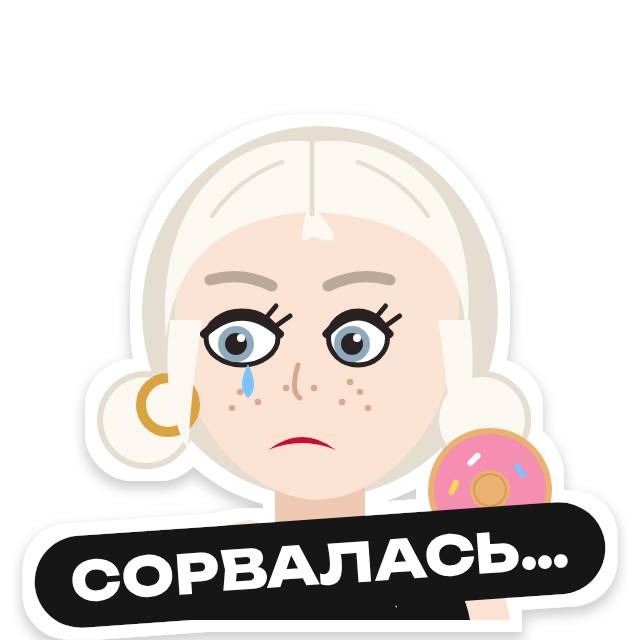
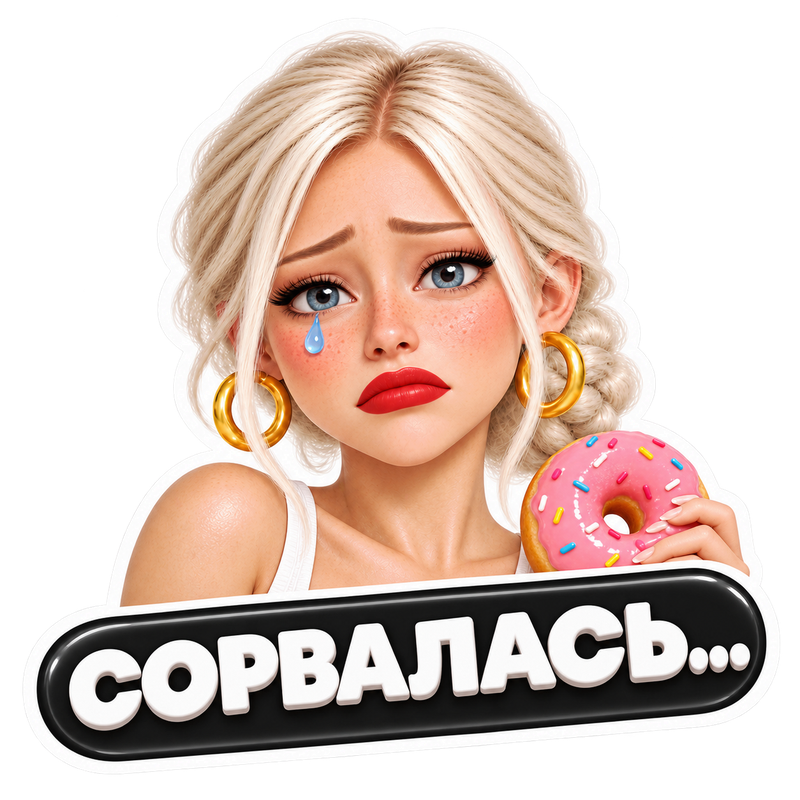
Ника: рилс «Сон и сушка», 3D-стикеры владельца вместо плоских
Claude-Session: https://claude.ai/code/session_01Napg3wfFdsDVKQ2M6dwRyb

diff --git a/index.html b/index.html
@@ -2,7 +2,7 @@
 <html lang="ru">
 <head>
 <meta charset="utf-8">
-<title>Ника — срываюсь по выходным</title>
+<title>Ника — сон и сушка</title>
 <style>
 @font-face { font-family: Unb; src: url(assets/fonts/Unbounded-VF.ttf); font-weight: 200 900; }
 @font-face { font-family: Man; src: url(assets/fonts/Manrope-VF.ttf); font-weight: 200 800; }
@@ -164,6 +164,11 @@ em .kw.hot { color: var(--ink); }
 .vlab span { width: 150px; text-align: center; font: 700 30px/1 Man; color: var(--muted); }
 .vb.w7 .c, .vlab.w7 span { width: 100px; } .vb.w7 .bar { width: 74px; border-radius: 20px 20px 6px 6px; }
 .week .day { position: relative; }
+.chk { width: 760px; padding: 34px 44px; display: flex; flex-direction: column; gap: 22px; }
+.chk .ci { display: flex; align-items: center; gap: 24px; font: 800 52px/1 Unb; transform-origin: 20% 50%; }
+.chk .ci i { width: 72px; height: 72px; border-radius: 50%; background: var(--green); color: #fff; font: 900 40px/72px Unb; text-align: center; font-style: normal; }
+.vrow .l small { display: block; font: 700 24px/1 Man; color: var(--muted); margin-top: 8px; }
+.vs .vrow .l { width: 250px; }
 </style>
 </head>
 <body>
@@ -178,100 +183,85 @@ em .kw.hot { color: var(--ink); }
 
   <!-- Разметка монтажа: .layer = кадр; data-fx (pop/left/right/up/zoom/slam/punch/draw), data-mark, data-at, data-count, data-shatter -->
   <div id="world">
-    <!-- 1. Хук: пн–пт идеальна, в субботу срыв -->
+    <!-- 1. Хук: всё правильно, но не худеешь -->
     <section class="sec" id="s1">
       <div class="layer A">
-        <div class="row" style="top:210px"><div class="h1" data-fx="punch" style="font-size:88px">ПН–ПТ<br><em>ИДЕАЛЬНА</em></div></div>
-        <div class="row" style="top:470px"><div class="week" data-fx="punch">
-          <div class="day"><b>ПН</b><div class="ok">✓</div></div><div class="day"><b>ВТ</b><div class="ok">✓</div></div><div class="day"><b>СР</b><div class="ok">✓</div></div>
-          <div class="day"><b>ЧТ</b><div class="ok">✓</div></div><div class="day"><b>ПТ</b><div class="ok">✓</div></div>
-          <div class="day bad"><b>СБ</b><div class="no">!</div></div><div class="day bad"><b>ВС</b><div class="no">!</div></div></div></div>
-        <div class="row" style="top:720px"><div class="tst" data-fx="punch" style="width:430px;height:430px"><img src="assets/nika/toon/10_cool.png" alt=""></div></div>
+        <div class="row" style="top:200px"><div class="h1" data-fx="punch" style="font-size:78px">ВСЁ ПРАВИЛЬНО,<br>НО <em>НЕ ХУДЕЕШЬ?</em></div></div>
+        <div class="row" style="top:440px"><div class="card chk" data-fx="punch">
+          <div class="ci hk"><i>✓</i>питание</div><div class="ci hk"><i>✓</i>тренировки</div><div class="ci hk"><i>✓</i>шаги</div></div></div>
+        <div class="row" style="top:810px"><div class="scale card hkx" data-fx="punch"><div class="lcd">0,0</div><div class="unit">КГ ЗА МЕСЯЦ</div></div></div>
       </div>
       <div class="layer B" style="opacity:0">
-        <div class="row" style="top:220px"><div class="h1" data-fx="kin" style="font-size:96px">А В <em>СУББОТУ</em>…</div></div>
-        <div class="row" style="top:400px"><div style="position:relative;width:900px;height:600px">
-          <div data-fx="drop" data-at=".02" style="position:absolute;left:40px;top:40px"><svg class="prop" width="260" height="280" viewBox="0 0 260 280"><path d="M20 40 Q130 0 240 40 L130 270Z" fill="#f6c453" stroke="#121212" stroke-width="9" stroke-linejoin="round"/><path d="M20 40 Q130 0 240 40" stroke="#d98c4a" stroke-width="26" fill="none" stroke-linecap="round"/><circle cx="95" cy="85" r="20" fill="#c8102e"/><circle cx="165" cy="90" r="18" fill="#c8102e"/><circle cx="130" cy="160" r="17" fill="#c8102e"/><path d="M70 60 Q60 90 90 120" stroke="#f9dc8c" stroke-width="8" fill="none" opacity=".8"/></svg></div>
-          <div data-fx="drop" data-at=".18" style="position:absolute;left:520px;top:20px"><svg class="prop" width="300" height="250" viewBox="0 0 300 250"><path d="M20 230 V110 L280 60 V200Z" fill="#f6dcb5" stroke="#121212" stroke-width="9" stroke-linejoin="round"/><path d="M24 112 L276 64" stroke="#ff8fa3" stroke-width="30" stroke-linecap="round"/><path d="M24 172 L276 132" stroke="#fff" stroke-width="14"/><circle cx="230" cy="50" r="22" fill="#c8102e" stroke="#121212" stroke-width="7"/><path d="M232 30 Q240 8 256 4" stroke="#121212" stroke-width="6" fill="none"/></svg></div>
-          <div data-fx="drop" data-at=".34" style="position:absolute;left:110px;top:330px"><svg class="prop" width="240" height="240" viewBox="0 0 240 240"><circle cx="120" cy="120" r="100" fill="#e7b46a" stroke="#121212" stroke-width="9"/><path d="M40 115 Q45 50 120 38 Q195 50 200 115 Q205 150 180 160 Q150 140 120 168 Q90 140 60 160 Q36 150 40 115Z" fill="#ff8fa3"/><circle cx="120" cy="118" r="32" fill="#f4f1ec" stroke="#121212" stroke-width="9"/><g stroke-width="8" stroke-linecap="round"><path d="M70 90 l12 -6" stroke="#fff"/><path d="M160 70 l10 8" stroke="#ffd166"/><path d="M175 120 l12 4" stroke="#fff"/><path d="M90 60 l8 10" stroke="#5bb36a"/><path d="M130 65 l12 -2" stroke="#fff"/></g></svg></div>
-          <div data-fx="drop" data-at=".5" style="position:absolute;left:470px;top:330px"><svg class="prop" width="300" height="240" viewBox="0 0 300 240"><path d="M30 110 Q30 20 150 20 Q270 20 270 110Z" fill="#e7a24e" stroke="#121212" stroke-width="9" stroke-linejoin="round"/><path d="M24 122 Q60 106 90 122 T150 122 T210 122 T276 122" stroke="#5bb36a" stroke-width="18" fill="none" stroke-linecap="round"/><rect x="30" y="134" width="240" height="38" rx="19" fill="#7a4524" stroke="#121212" stroke-width="8"/><path d="M34 184 H266 Q266 220 230 220 H70 Q34 220 34 184Z" fill="#e7a24e" stroke="#121212" stroke-width="9"/><circle cx="110" cy="55" r="5" fill="#fff"/><circle cx="160" cy="45" r="5" fill="#fff"/><circle cx="200" cy="65" r="5" fill="#fff"/></svg></div>
-        </div></div>
-        <div class="row" style="top:1050px"><div class="hand" data-fx="write" data-at=".7" style="transform:rotate(-4deg)">всё, что вижу!</div></div>
+        <div class="row" style="top:220px"><div class="h1" data-fx="kin" style="font-size:100px">СКОЛЬКО<br>ТЫ <em>СПИШЬ?</em></div></div>
+        <div class="row" style="top:480px"><svg class="prop" data-fx="zoom" data-at=".1" width="560" height="460" viewBox="0 0 560 460"><path d="M290 50 A190 190 0 1 0 470 330 A160 160 0 0 1 290 50Z" fill="#ffd166" stroke="#121212" stroke-width="10" stroke-linejoin="round"/><circle cx="190" cy="250" r="16" fill="#f0b94a"/><circle cx="240" cy="340" r="11" fill="#f0b94a"/><g font-family="Unb" font-weight="900" fill="#c8102e"><text x="380" y="150" font-size="60">z</text><text x="430" y="95" font-size="80">z</text><text x="490" y="40" font-size="56">Z</text></g><path class="glint" d="M120 300 Q130 220 180 170" stroke="#fff3c4" stroke-width="14" fill="none" stroke-linecap="round"/></svg></div>
+        <div class="row" style="top:990px"><div class="hand" data-fx="write" data-at=".6" style="transform:rotate(-5deg)">только честно</div></div>
       </div>
     </section>
 
-    <!-- 2. Знакомо? пицца, торт, +1 кг -->
+    <!-- 2. Спала 5–6 часов → весь день тянет на сладкое -->
     <section class="sec" id="s2">
       <div class="layer A">
-        <div class="row" style="top:220px"><div class="h1" data-fx="kin" style="font-size:110px">ЗНАКОМО?</div></div>
-        <div class="row" style="top:450px"><div class="week" style="grid-template-columns:repeat(5,150px)">
-          <div class="day" data-fx="pop" data-mark="a"><b>ПН</b><div class="ok">✓</div></div><div class="day" data-fx="pop" data-mark="a" data-at=".1"><b>ВТ</b><div class="ok">✓</div></div>
-          <div class="day" data-fx="pop" data-mark="a" data-at=".2"><b>СР</b><div class="ok">✓</div></div><div class="day" data-fx="pop" data-mark="a" data-at=".3"><b>ЧТ</b><div class="ok">✓</div></div>
-          <div class="day" data-fx="pop" data-mark="a" data-at=".4"><b>ПТ</b><div class="ok">✓</div></div></div></div>
-        <div class="row" style="top:690px"><div class="tag dark" data-fx="pop" data-mark="a" data-at=".7">5 дней держишься</div></div>
-        <div class="row" style="top:820px"><div class="tst" data-fx="up" data-at=".2" style="width:400px;height:400px"><img src="assets/nika/toon/04_power.png" alt=""></div></div>
+        <div class="row" style="top:220px"><div class="kicker" data-fx="pop">МОЙ СОН</div></div>
+        <div class="row" style="top:290px"><svg class="prop" data-fx="zoom" data-at=".05" width="360" height="390" viewBox="0 0 360 390"><circle cx="70" cy="72" r="46" fill="#c8102e" stroke="#121212" stroke-width="8"/><circle cx="290" cy="72" r="46" fill="#c8102e" stroke="#121212" stroke-width="8"/><path d="M95 350 L62 384 M265 350 L298 384" stroke="#121212" stroke-width="13" stroke-linecap="round"/><circle cx="180" cy="210" r="150" fill="#fff" stroke="#121212" stroke-width="10"/><g stroke="#cfc7bd" stroke-width="8" stroke-linecap="round"><path d="M180 78 V96 M180 324 V342 M48 210 H66 M294 210 H312"/></g><path d="M180 210 V120 M180 210 L250 245" stroke="#121212" stroke-width="13" stroke-linecap="round"/><circle cx="180" cy="210" r="13" fill="#c8102e"/></svg></div>
+        <div class="row" style="top:700px"><div class="big500 red" data-fx="slam" data-at=".3" style="font-size:210px">5–6<small>часов за ночь</small></div></div>
+        <div class="row" style="top:1010px"><svg class="ul" data-fx="draw" data-at=".9" width="560" height="50" viewBox="0 0 560 50"><path d="M10 34 C160 6 380 16 550 26" stroke="#c8102e" stroke-width="16" fill="none" stroke-linecap="round" pathLength="1" class="dr"/></svg></div>
       </div>
       <div class="layer B" style="opacity:0">
-        <div class="row" style="top:230px"><div class="h1" data-fx="kin" style="font-size:110px">ПОТОМ…</div></div>
-        <div class="row" style="top:420px"><div style="position:relative;width:900px;height:600px">
-          <div data-fx="drop" data-at=".02" style="position:absolute;left:30px;top:40px"><svg class="prop" width="260" height="280" viewBox="0 0 260 280"><path d="M20 40 Q130 0 240 40 L130 270Z" fill="#f6c453" stroke="#121212" stroke-width="9" stroke-linejoin="round"/><path d="M20 40 Q130 0 240 40" stroke="#d98c4a" stroke-width="26" fill="none" stroke-linecap="round"/><circle cx="95" cy="85" r="20" fill="#c8102e"/><circle cx="165" cy="90" r="18" fill="#c8102e"/><circle cx="130" cy="160" r="17" fill="#c8102e"/><path d="M70 60 Q60 90 90 120" stroke="#f9dc8c" stroke-width="8" fill="none" opacity=".8"/></svg></div>
-          <div class="lbl r" data-fx="pop" data-at=".5" style="left:60px;top:300px">пицца</div>
-          <div data-fx="drop" data-mark="b" style="position:absolute;left:500px;top:30px"><svg class="prop" width="300" height="250" viewBox="0 0 300 250"><path d="M20 230 V110 L280 60 V200Z" fill="#f6dcb5" stroke="#121212" stroke-width="9" stroke-linejoin="round"/><path d="M24 112 L276 64" stroke="#ff8fa3" stroke-width="30" stroke-linecap="round"/><path d="M24 172 L276 132" stroke="#fff" stroke-width="14"/><circle cx="230" cy="50" r="22" fill="#c8102e" stroke="#121212" stroke-width="7"/><path d="M232 30 Q240 8 256 4" stroke="#121212" stroke-width="6" fill="none"/></svg></div>
-          <div class="lbl" data-fx="pop" data-mark="b" data-at=".45" style="left:600px;top:270px">торт</div>
-          <div data-fx="drop" data-mark="b" data-at=".3" style="position:absolute;left:330px;top:340px"><svg class="prop" width="240" height="240" viewBox="0 0 240 240"><circle cx="120" cy="120" r="100" fill="#e7b46a" stroke="#121212" stroke-width="9"/><path d="M40 115 Q45 50 120 38 Q195 50 200 115 Q205 150 180 160 Q150 140 120 168 Q90 140 60 160 Q36 150 40 115Z" fill="#ff8fa3"/><circle cx="120" cy="118" r="32" fill="#f4f1ec" stroke="#121212" stroke-width="9"/><g stroke-width="8" stroke-linecap="round"><path d="M70 90 l12 -6" stroke="#fff"/><path d="M160 70 l10 8" stroke="#ffd166"/><path d="M175 120 l12 4" stroke="#fff"/><path d="M90 60 l8 10" stroke="#5bb36a"/><path d="M130 65 l12 -2" stroke="#fff"/></g></svg></div>
+        <div class="row" style="top:220px"><div class="h2" data-fx="kin">ВЕСЬ ДЕНЬ ХОЧЕТСЯ<br><em>СЛАДКОГО</em></div></div>
+        <div class="row" style="top:410px"><div style="position:relative;width:900px;height:360px">
+          <div data-fx="drop" data-mark="a" data-at="-.1" style="position:absolute;left:40px;top:60px"><svg class="prop" width="240" height="240" viewBox="0 0 240 240"><circle cx="120" cy="120" r="100" fill="#e7b46a" stroke="#121212" stroke-width="9"/><path d="M40 115 Q45 50 120 38 Q195 50 200 115 Q205 150 180 160 Q150 140 120 168 Q90 140 60 160 Q36 150 40 115Z" fill="#ff8fa3"/><circle cx="120" cy="118" r="32" fill="#f4f1ec" stroke="#121212" stroke-width="9"/><g stroke-width="8" stroke-linecap="round"><path d="M70 90 l12 -6" stroke="#fff"/><path d="M160 70 l10 8" stroke="#ffd166"/><path d="M175 120 l12 4" stroke="#fff"/><path d="M90 60 l8 10" stroke="#5bb36a"/><path d="M130 65 l12 -2" stroke="#fff"/></g></svg></div>
+          <div data-fx="drop" data-mark="a" data-at=".1" style="position:absolute;left:300px;top:20px"><svg class="prop" width="300" height="250" viewBox="0 0 300 250"><path d="M20 230 V110 L280 60 V200Z" fill="#f6dcb5" stroke="#121212" stroke-width="9" stroke-linejoin="round"/><path d="M24 112 L276 64" stroke="#ff8fa3" stroke-width="30" stroke-linecap="round"/><path d="M24 172 L276 132" stroke="#fff" stroke-width="14"/><circle cx="230" cy="50" r="22" fill="#c8102e" stroke="#121212" stroke-width="7"/><path d="M232 30 Q240 8 256 4" stroke="#121212" stroke-width="6" fill="none"/></svg></div>
+          <div data-fx="drop" data-mark="a" data-at=".3" style="position:absolute;left:620px;top:70px"><svg class="prop" width="240" height="240" viewBox="0 0 240 240"><circle cx="120" cy="120" r="100" fill="#e7b46a" stroke="#121212" stroke-width="9"/><path d="M40 115 Q45 50 120 38 Q195 50 200 115 Q205 150 180 160 Q150 140 120 168 Q90 140 60 160 Q36 150 40 115Z" fill="#ff8fa3"/><circle cx="120" cy="118" r="32" fill="#f4f1ec" stroke="#121212" stroke-width="9"/><g stroke-width="8" stroke-linecap="round"><path d="M70 90 l12 -6" stroke="#fff"/><path d="M160 70 l10 8" stroke="#ffd166"/><path d="M175 120 l12 4" stroke="#fff"/><path d="M90 60 l8 10" stroke="#5bb36a"/><path d="M130 65 l12 -2" stroke="#fff"/></g></svg></div>
         </div></div>
-      </div>
-      <div class="layer C" style="opacity:0">
-        <div class="row" style="top:230px"><div class="kicker" data-fx="pop">ПОНЕДЕЛЬНИК · ВЕСЫ</div></div>
-        <div class="row" style="top:310px"><div class="scale card" data-fx="zoom" data-at=".1"><div class="lcd" style="color:var(--red)">+<span data-count="0,1">0</span></div><div class="unit">КГ</div></div></div>
-        <div class="row" style="top:650px"><div class="tst" data-fx="up" data-at=".4" style="width:420px;height:420px"><img src="assets/nika/toon/01_shock.png" alt=""></div></div>
-        <div class="row" style="top:1110px"><div class="hand" data-fx="write" data-mark="c" style="transform:rotate(-4deg)">вся неделя зря?</div></div>
+        <div class="row" style="top:800px"><div class="tst" data-fx="up" data-at=".2" style="width:430px;height:430px"><img src="assets/nika/toon/08_sad.png" alt=""></div></div>
       </div>
     </section>
 
-    <!-- 3. Сила воли? Нет -->
+    <!-- 3. Недосып мешает сушке -->
     <section class="sec" id="s3">
       <div class="layer A">
-        <div class="row" style="top:220px"><div class="h2" data-fx="kin">ПРОБЛЕМА<br>В <em>СИЛЕ ВОЛИ?</em></div></div>
-        <div class="row" style="top:470px"><div class="batt" data-fx="zoom" data-at=".15"><i class="low" style="flex:.35"></i><i style="flex:1;background:#f1ece6"></i></div></div>
-        <div class="row" style="top:790px"><div class="tst" data-fx="up" data-at=".35" style="width:420px;height:420px"><img src="assets/nika/toon/08_sad.png" alt=""></div></div>
+        <div class="row" style="top:220px"><div class="h1" data-fx="kin" style="font-size:100px">НЕДОСЫП<br><em>МЕШАЕТ</em><br>СУШКЕ</div></div>
+        <div class="row" style="top:640px"><div class="batt" data-fx="zoom" data-at=".2"><i class="low" style="flex:.3"></i><i style="flex:1;background:#f1ece6"></i></div></div>
+        <div class="row" style="top:960px"><div class="hand" data-fx="write" data-mark="a" data-at=".3" style="transform:rotate(-4deg)">напрямую!</div></div>
       </div>
       <div class="layer B" style="opacity:0">
-        <div class="row" style="top:220px"><div class="h1" data-fx="kin" style="font-size:110px">ДЕЛО<br>В <em>ДРУГОМ</em></div></div>
-        <div class="row" style="top:520px"><div style="position:relative">
-          <div class="chipf" data-fx="pop" data-at=".1" style="font-size:52px;padding:26px 40px">сила воли</div>
-          <svg class="ul" data-fx="draw" data-at=".5" style="position:absolute;left:-20px;top:30px" width="440" height="60" viewBox="0 0 440 60"><path class="dr" pathLength="1" d="M10 40 C140 10 300 20 430 26" stroke="#c8102e" stroke-width="16" fill="none" stroke-linecap="round"/></svg></div></div>
-        <div class="row" style="top:690px"><div class="hand" data-fx="write" data-mark="a" style="transform:rotate(-4deg)">прозвучит странно…</div></div>
-        <div class="row" style="top:800px"><div class="tst" data-fx="up" data-mark="a" data-at=".3" style="width:400px;height:400px"><img src="assets/nika/toon/03_wink.png" alt=""></div></div>
+        <div class="row" style="top:240px"><div class="h1" data-fx="kin" style="font-size:110px">И ВОТ <em>КАК</em> ↓</div></div>
+        <div class="row" style="top:450px"><div class="tst" data-fx="up" data-at=".05" style="width:600px;height:600px"><img src="assets/nika/toon/03_wink.png" alt=""></div></div>
       </div>
     </section>
 
-    <!-- 4. Урезала в будни → голод копился → добавила еды -->
+    <!-- 4. Как именно: голод ↑, сытость ↓, нет сил; 7–8 часов -->
     <section class="sec" id="s4">
       <div class="layer A">
-        <div class="row" style="top:220px"><div class="h2" data-fx="kin">УРЕЗАЛА ЕДУ<br><em>В БУДНИ</em></div></div>
-        <div class="row" style="top:450px"><div class="card chart3" data-fx="up" data-at=".05">
-          <div class="kicker" style="color:var(--muted)">БЫЛО · ЕДА ПО ДНЯМ</div>
-          <div class="vb w7"><div class="c"><div class="bar " data-fx="grow" data-h="0,22" data-at="0.30"></div></div><div class="c"><div class="bar " data-fx="grow" data-h="0,20" data-at="0.40"></div></div><div class="c"><div class="bar " data-fx="grow" data-h="0,24" data-at="0.50"></div></div><div class="c"><div class="bar " data-fx="grow" data-h="0,18" data-at="0.60"></div></div><div class="c"><div class="bar " data-fx="grow" data-h="0,22" data-at="0.70"></div></div><div class="c"><div class="bar r" data-fx="grow" data-h="0,88" data-at="0.80"></div></div><div class="c"><div class="bar r" data-fx="grow" data-h="0,80" data-at="0.90"></div></div></div>
-          <div class="vlab w7"><span>пн</span><span>вт</span><span>ср</span><span>чт</span><span>пт</span><span>сб</span><span>вс</span></div>
+        <div class="row" style="top:220px"><div class="kicker" data-fx="pop">ПОСЛЕ ПЛОХОЙ НОЧИ</div></div>
+        <div class="row" style="top:310px"><div class="card vs" data-fx="up" data-at=".05">
+          <div class="vrow"><div class="l">голод<small>гормон грелин</small></div><div class="tr"><div class="fl" data-fx="grow" data-w="35,95" data-mark="a" style="background:var(--red)"></div></div><div class="ar" style="color:var(--red)">↑</div></div>
+          <div class="vrow"><div class="l">сытость<small>гормон лептин</small></div><div class="tr"><div class="fl" data-fx="grow" data-w="80,35" data-mark="b" style="background:var(--green)"></div></div><div class="ar" style="color:var(--green)">↓</div></div>
         </div></div>
-        <div class="row" style="top:1110px"><div class="hand" data-fx="write" data-at="1.3" style="transform:rotate(-4deg)">в будни — почти ничего</div></div>
+        <div class="row" style="top:700px"><div class="tst" data-fx="up" data-mark="b" data-at=".3" style="width:420px;height:420px"><img src="assets/nika/toon/06_think.png" alt=""></div></div>
       </div>
       <div class="layer B" style="opacity:0">
-        <div class="row" style="top:220px"><div class="h2" data-fx="kin">ТЕЛО КОПИЛО<br><em>ГОЛОД</em></div></div>
-        <div class="row" style="top:460px"><div class="card vs" data-fx="up" data-at=".05">
-          <div class="vrow"><div class="l">голод</div><div class="tr"><div class="fl" data-fx="grow" data-w="8,100" data-at=".3" style="background:var(--red)"></div></div><div class="ar" style="color:var(--red)">↑</div></div></div></div>
-        <div class="row" style="top:660px"><div class="tag" data-fx="slam" data-mark="a" data-at=".1">выходные = срыв</div></div>
-        <div class="row" style="top:770px"><div data-fx="drop" data-mark="a" data-at=".2"><svg class="prop" width="260" height="280" viewBox="0 0 260 280"><path d="M20 40 Q130 0 240 40 L130 270Z" fill="#f6c453" stroke="#121212" stroke-width="9" stroke-linejoin="round"/><path d="M20 40 Q130 0 240 40" stroke="#d98c4a" stroke-width="26" fill="none" stroke-linecap="round"/><circle cx="95" cy="85" r="20" fill="#c8102e"/><circle cx="165" cy="90" r="18" fill="#c8102e"/><circle cx="130" cy="160" r="17" fill="#c8102e"/><path d="M70 60 Q60 90 90 120" stroke="#f9dc8c" stroke-width="8" fill="none" opacity=".8"/></svg></div></div>
+        <div class="row" style="top:220px"><div class="h2" data-fx="kin">ХОЧЕТСЯ<br>ЕСТЬ <em>БОЛЬШЕ</em></div></div>
+        <div class="row" style="top:420px"><div style="position:relative;width:900px;height:400px">
+          <div data-fx="drop" data-at=".05" style="position:absolute;left:70px;top:80px"><svg class="prop" width="300" height="240" viewBox="0 0 300 240"><path d="M30 110 Q30 20 150 20 Q270 20 270 110Z" fill="#e7a24e" stroke="#121212" stroke-width="9" stroke-linejoin="round"/><path d="M24 122 Q60 106 90 122 T150 122 T210 122 T276 122" stroke="#5bb36a" stroke-width="18" fill="none" stroke-linecap="round"/><rect x="30" y="134" width="240" height="38" rx="19" fill="#7a4524" stroke="#121212" stroke-width="8"/><path d="M34 184 H266 Q266 220 230 220 H70 Q34 220 34 184Z" fill="#e7a24e" stroke="#121212" stroke-width="9"/><circle cx="110" cy="55" r="5" fill="#fff"/><circle cx="160" cy="45" r="5" fill="#fff"/><circle cx="200" cy="65" r="5" fill="#fff"/></svg></div>
+          <div data-fx="drop" data-at=".25" style="position:absolute;left:540px;top:40px"><svg class="prop" width="260" height="280" viewBox="0 0 260 280"><path d="M20 40 Q130 0 240 40 L130 270Z" fill="#f6c453" stroke="#121212" stroke-width="9" stroke-linejoin="round"/><path d="M20 40 Q130 0 240 40" stroke="#d98c4a" stroke-width="26" fill="none" stroke-linecap="round"/><circle cx="95" cy="85" r="20" fill="#c8102e"/><circle cx="165" cy="90" r="18" fill="#c8102e"/><circle cx="130" cy="160" r="17" fill="#c8102e"/><path d="M70 60 Q60 90 90 120" stroke="#f9dc8c" stroke-width="8" fill="none" opacity=".8"/></svg></div>
+        </div></div>
+        <div class="row" style="top:880px"><div style="position:relative">
+          <div class="chipf" data-fx="pop" data-mark="c" data-at="-.1" style="font-size:52px;padding:26px 40px">сила воли</div>
+          <svg class="ul" data-fx="draw" data-mark="c" data-at=".3" style="position:absolute;left:-20px;top:30px" width="440" height="60" viewBox="0 0 440 60"><path class="dr" pathLength="1" d="M10 40 C140 10 300 20 430 26" stroke="#c8102e" stroke-width="16" fill="none" stroke-linecap="round"/></svg></div></div>
+        <div class="row" style="top:1040px"><div class="tag" data-fx="slam" data-mark="c" data-at=".8">не хватит</div></div>
       </div>
       <div class="layer C" style="opacity:0">
-        <div class="row" style="top:220px"><div class="h2" data-fx="kin">ДОБАВИЛА ЕДЫ<br><em>В БУДНИ</em></div></div>
-        <div class="row" style="top:450px"><div class="card chart3" data-fx="up" data-at=".05">
-          <div class="kicker" style="color:var(--green)">СТАЛО · РОВНО ВСЮ НЕДЕЛЮ</div>
-          <div class="vb w7"><div class="c"><div class="bar g" data-fx="grow" data-h="0,58" data-at="0.30"></div></div><div class="c"><div class="bar g" data-fx="grow" data-h="0,62" data-at="0.40"></div></div><div class="c"><div class="bar g" data-fx="grow" data-h="0,56" data-at="0.50"></div></div><div class="c"><div class="bar g" data-fx="grow" data-h="0,60" data-at="0.60"></div></div><div class="c"><div class="bar g" data-fx="grow" data-h="0,58" data-at="0.70"></div></div><div class="c"><div class="bar g" data-fx="grow" data-h="0,66" data-at="0.80"></div></div><div class="c"><div class="bar g" data-fx="grow" data-h="0,64" data-at="0.90"></div></div></div>
-          <div class="vlab w7"><span>пн</span><span>вт</span><span>ср</span><span>чт</span><span>пт</span><span>сб</span><span>вс</span></div>
-        </div></div>
-        <div class="row" style="top:1110px"><div class="tag dark" data-fx="pop" data-mark="b" data-at=".1">срывы почти исчезли ✓</div></div>
+        <div class="row" style="top:220px"><div class="h2" data-fx="kin">НЕТ ЭНЕРГИИ<br>НА <em>ТРЕНИРОВКУ</em></div></div>
+        <div class="row" style="top:450px"><div class="batt" data-fx="zoom" data-at=".1"><i class="low" style="flex:.2"></i><i style="flex:1;background:#f1ece6"></i></div></div>
+        <div class="row" style="top:760px"><div class="tst" data-fx="up" data-at=".3" style="width:440px;height:440px"><img src="assets/nika/toon/05_tired.png" alt=""></div></div>
+      </div>
+      <div class="layer D" style="opacity:0">
+        <div class="row" style="top:220px"><div class="kicker" data-fx="pop" style="color:var(--green)">КОГДА СТАЛА СПАТЬ</div></div>
+        <div class="row" style="top:300px"><div class="big500" data-fx="slam" data-at=".15" style="font-size:210px;color:var(--green)">7–8<small>часов за ночь</small></div></div>
+        <div class="row" style="top:620px"><svg class="ul" data-fx="draw" data-at=".6" width="560" height="50" viewBox="0 0 560 50"><path d="M10 34 C160 6 380 16 550 26" stroke="#1aa36b" stroke-width="16" fill="none" stroke-linecap="round" pathLength="1" class="dr"/></svg></div>
+        <div class="row" style="top:700px"><div class="tst" data-fx="up" data-at=".35" style="width:400px;height:400px"><img src="assets/nika/toon/10_cool.png" alt=""></div></div>
+        <div class="row" style="top:1120px"><div class="tag dark" data-fx="pop" data-mark="d" data-at=".2">тяга к сладкому упала сама ✓</div></div>
       </div>
     </section>
 
@@ -288,11 +278,12 @@ em .kw.hot { color: var(--ink); }
       <div class="layer B" style="opacity:0">
         <div class="row" style="top:200px"><div class="guide" data-fx="zoom" id="guide" style="height:600px">
           <div class="k">ГАЙД ОТ НИКИ</div>
-          <div class="t">СУШКА<br><em>БЕЗ</em><br>СРЫВОВ</div>
+          <div class="t" style="font-size:58px">ЧТО МНЕ<br><em>НЕ&nbsp;СКАЗАЛИ</em><br>НА СУШКЕ</div>
           <div class="b"><img src="assets/nika/face.jpg" alt="">пришлю тебе</div>
         </div></div>
         <div class="row" style="top:860px"><div class="tag" data-fx="slam" data-at=".35" id="cta" style="font-size:52px;line-height:1.2;padding:28px 56px 30px;border-radius:48px;white-space:normal;text-align:center">пиши «ДЕСЕРТ»<br>в комментарии 👇</div></div>
-        <div class="row" style="top:1090px"><div class="sign" data-fx="write" data-mark="b" data-at=".2">— Ника</div></div>
+        <div class="row" style="top:1070px"><div class="hand" data-fx="write" data-mark="b" style="transform:rotate(-4deg)">сэкономила бы полгода</div></div>
+        <div class="row" style="top:1180px"><div class="sign" data-fx="write" data-mark="b" data-at=".9" style="font-size:96px">— Ника</div></div>
       </div>
     </section>
   </div>

diff --git a/scene.js b/scene.js
@@ -201,12 +201,12 @@ SECS.forEach((sec, i) => {
   L.forEach((layer, n) => layerFx(layer, i, n ? cuts[n - 1] : (i ? s + .02 : 0), cuts[n] ?? e));
 });
 
-// хук: удар в первые 0.05 с, галочки будней щёлкают по очереди, выходные трясёт
+// хук: удар в первые 0.05 с; элементы .hk по очереди «щёлкают», .hkx трясёт (2-й удар), заголовок пульсирует (3-й)
 {
   const A = SECS[0].querySelector('.layer.A');
   flashAt(.04, .6, .4); speedAt(.04, .7); shake(A, .04); sfx(.04, 'impact', { g: .8 }); sfx(.04, 'thump');
-  A.querySelectorAll('.day .ok').forEach((o, k) => { const t = .3 + k * .1; pulse(o, t, 1.35); sfx(t, 'tick', { f: 1 + k * .1, g: .5 }); });
-  A.querySelectorAll('.day.bad').forEach(d => { pulse(d, .95, 1.18); shake(d, .95); }); sfx(.95, 'impact', { g: .6 });
+  A.querySelectorAll('.hk').forEach((o, k) => { const t = .3 + k * .14; pulse(o, t, 1.12); sfx(t, 'tick', { f: 1 + k * .12, g: .5 }); });
+  A.querySelectorAll('.hkx').forEach(d => { pulse(d, .95, 1.12); shake(d, .95); }); sfx(.95, 'impact', { g: .6 });
   pulse(A.querySelector('.h1'), 1.45, 1.06); sfx(1.45, 'bonk');
 }
 // финал: гайд пульсирует, кнопка-призыв качается

diff --git a/thumb.html b/thumb.html
@@ -1,5 +1,5 @@
 <!doctype html>
-<html lang="ru"><head><meta charset="utf-8"><title>Ника — срываюсь по выходным, обложка</title>
+<html lang="ru"><head><meta charset="utf-8"><title>Ника — сон и сушка, обложка</title>
 <style>
 @font-face { font-family: Unb; src: url(assets/fonts/Unbounded-VF.ttf); font-weight: 200 900; }
 @font-face { font-family: Man; src: url(assets/fonts/Manrope-VF.ttf); font-weight: 200 800; }
@@ -21,9 +21,9 @@ body.v { width: 1080px; height: 1920px; } body.h { width: 1920px; height: 1080px
 <body>
 <div class="abs bg"></div>
 <div class="abs prof"><img src="assets/nika/face.jpg" alt=""><div>Я Ника<span>Фитнес | Питание</span></div></div>
-<div class="abs t">СРЫВАЮСЬ<br><em>ПО ВЫХОДНЫМ</em></div>
+<div class="abs t">СОН<br><em>И СУШКА</em></div>
 <div class="abs ph"><img src="assets/nika/face.jpg" alt=""></div>
-<div class="abs tag">дело не в силе воли</div>
+<div class="abs tag">сколько ты спишь?</div>
 <script>
 document.body.className = new URLSearchParams(location.search).get('v') === 'v' ? 'v' : 'h';
 window.READY = Promise.all([document.fonts.ready, ...[...document.images].map(i => i.decode())]);

diff --git a/voice.py b/voice.py
@@ -33,11 +33,11 @@ HERE = os.path.dirname(os.path.abspath(__file__))
 # 4-е число (необязательно) — «досмотр» после реплики, с: если последний кадр сцены появляется на последних словах,
 # без него он виден < 1 с (свайп начинается за 0.5 с до следующей сцены). На экране в это время идёт анимация.
 CUES = [
-    (2.5, 0.05, "С понедельника по пятницу я идеальна. |x|А в субботу съедаю всё, что вижу!"),
-    (2.5, 0.10, "Знакомо? |a|Пять дней держишься, |x|потом пицца, |b|торт, |y|и в понедельник весы показывают плюс килограмм. |c|И кажется, что вся неделя зря.", 1.0),
-    (2.5, 0.10, "Я думала, проблема в силе воли. |x|Но дело было в другом, |a|и это прозвучит странно.", 0.6),
-    (2.5, 0.10, "Я слишком сильно урезала еду в будни. |x|Тело копило голод, |a|а в выходные забирало своё. |y|Как только я добавила еды с понедельника по пятницу, |b|срывы почти исчезли.", 1.0),
-    (6.0, 0.10, "Пиши |a|ДЕСЕРТ в комментарии, |x|я скину гайд, как сушиться |b|и перестать срываться по выходным!", 2.5),
+    (2.5, 0.05, "Ты делаешь всё правильно, но не худеешь? |x|Проверь, сколько ты спишь!"),
+    (2.5, 0.10, "Я спала по 5–6 часов, |x|и не понимала, |a|почему весь день хочется сладкого.", 0.6),
+    (2.5, 0.10, "Оказалось, |a|недосып напрямую мешает сушке. |x|И вот как!", 0.8),
+    (2.5, 0.10, "После плохой ночи |a|растёт гормон голода, |b|а сытость наступает позже. |x|Ты буквально хочешь есть больше, |c|и силы воли на это не хватит. |y|Плюс, нет энергии на тренировку. |z|Когда я стала спать 7–8 часов, |d|тяга к сладкому упала сама.", 1.0),
+    (6.0, 0.10, "Пиши |a|ДЕСЕРТ, скину гайд |x|с тем, что мне никто не сказал в начале сушки. |b|Сэкономила бы полгода!", 2.5),
 ]
 TAIL = float(os.environ.get('TAIL', '0.2'))            # воздух после реплики до смены сцены
 STEP = 0.05
@@ -292,6 +292,8 @@ SPOKEN = [
     (r'\bдо 2 грамм', 'до двух грамм'),
     (r'\b25–30\b', 'двадцать пять, тридцать'),
     (r'\bрельефн', 'рель+ефн'),
+    (r'\b5–6 часов', 'пять, шесть часов'),
+    (r'\b7–8 часов', 'семь, восемь часов'),
     (r'\b[Пп]ри 60 кило', 'при шестидес+яти кило'),
 ]
 def speakable(text):

diff --git a/CLAUDE.md b/CLAUDE.md
@@ -5,13 +5,14 @@
 ## Стиль Ники (main)
 - Светлый минимализм, формат сторис: фон `#f4f1ec`, чёрный `#121212`, акцент — красный как её помада `#c8102e`, белые карточки со скруглением 40px, шрифты Unbounded (заголовки) и Manrope (текст). Сверху полоски прогресса по сценам и профиль (`#story`).
 - Материалы: `assets/nika/` — `face.jpg`, `gym.jpg` (из логотипа), 6 стикеров `st_shock / st_think / st_strong / st_fire / st_oops / st_love` (круг с белой обводкой, эмодзи-бейдж и слово). Стикеры — её фото с разными эмодзи и подписями; мимику на фото не меняем (нет генератора изображений) — для новых эмоций нужны её фото.
-- Мультяшные стикеры Ники (11 эмоций; подписи: 01 «ОПЯТЬ +1?!», 02 «МИНУС 3!», 03 «ЛОВИ ЛАЙФХАК», 04 «ЕЩЁ ПОДХОД», 05 «НОГИ ВСЁ…», 06 «СКОЛЬКО ККАЛ?», 07 «ЛЮБЛЮ БЕЛОК», 08 «СОРВАЛАСЬ…», 09 «ЖИРОТОП», 10 «СУШКА ИДЁТ», 11 «ГДЕ МЫШЦЫ?!»): `assets/nika/toon/01_shock … 11_muscle.png`, рисуются из `tools/stickers_nika.html` (массив `SET`: глаза, рот, брови, наклон `tilt`, поворот `dx`, реквизит, подпись). Новый стикер = новая строка в `SET`, рендер — скриншот элемента с прозрачным фоном.
+- Мультяшные стикеры Ники (11 эмоций; подписи: 01 «ОПЯТЬ +1?!», 02 «МИНУС 3!», 03 «ЛОВИ ЛАЙФХАК», 04 «ЕЩЁ ПОДХОД», 05 «НОГИ ВСЁ…», 06 «СКОЛЬКО ККАЛ?», 07 «ЛЮБЛЮ БЕЛОК», 08 «СОРВАЛАСЬ…», 09 «ЖИРОТОП», 10 «СУШКА ИДЁТ», 11 «ГДЕ МЫШЦЫ?!»): `assets/nika/toon/01_shock … 11_muscle.png`, с 03.10.2026 это объёмные 3D-стикеры, которые сделал владелец (PNG с прозрачностью, 800×800, те же имена и подписи). Старый генератор плоских стикеров `tools/stickers_nika.html` не запускать: он перезапишет 3D-версии. Новые эмоции — просить у владельца.
 - Видеоряд: стоковые сайты из рабочей среды недоступны, поэтому — векторная инфографика (`data-fx="draw"` рисует SVG-линии с классом `.dr`) + её фото с наездом. Клипы владельца вставляются через `.vid`.
 - Голос: Silero `xenia`. Субтитры: крупные (66–100px), по 2–3 слова, активное слово — красная плашка-маркер.
 - **Обязательные приёмы (с сторис «выкинула полезную еду»):** переходы — свайп вбок (сцены в ряд по горизонтали, мир чуть уменьшается в момент свайпа); склейки и свайпы привязаны к доле бита 0.5 с (музыка 120 BPM, собирать с `-Music 0.3`); кинетические заголовки `data-fx="kin"` (слова влетают по одному и подпрыгивают, когда голос их произносит); микродвижение всего (`.card,.tst,.plate,.lbl,.tag,.prop,.h1,.h2` дрейфуют через CSS `translate/rotate`, стикеры дышат); зерно `#grain` (неподвижное, opacity .025 — живое зерно владелец забраковал: «рябит в глазах») и размытые цветные пятна `#blobs` (медленные, бледные); фирменное — красный росчерк `.ul` (draw), рукописные пометки `.hand` шрифтом Caveat (`data-fx="write"`), подпись «— Ника» `.sign` в финале; падение предметов `data-fx="drop"` (до падения скрыт), растущие столбики/полоски `data-fx="grow" data-h|data-w="от,до"` (в %); пузырьки `.bub` и блики `.glint` в SVG.
 - **Длительность сцен** задаёт голос: минимум в `CUES` — 2.5 с (кроме финала ~6 с), иначе после реплики экран стоит без действия. Не переносить тайминги из разметки владельца в минимумы.
+- Хук: элементы `.hk` в первом кадре по очереди «щёлкают», `.hkx` трясётся на 0.95 с (движок в `scene.js`, блок «хук»).
 - Финал: призыв написать кодовое слово в комментарии (не QR/бот WoW). Плашка `#cta` «пиши «ДЕСЕРТ» в комментарии» — крупная, в 2 строки, появляется сразу с гайдом и висит до конца (4-е число в последней CUE ≈ 2.5 с), мягко пульсирует. Нутрициологические цифры — только проверяемые (1 ст. л. масла ≈ 120 ккал); личные истории — как её опыт.
-- Сборка: `build.ps1` → `nika-reel.mp4`. Ролики Ники тоже сохранять в ветки `nika-<тема>` перед новым (уже есть: `nika-dry-no-loss`, `nika-food-day`, `nika-useful-food`, `nika-protein`). В роликах использовать мультяшные стикеры из `assets/nika/toon` (элемент `.tst`); еда и иконки — векторные SVG прямо в вёрстке.
+- Сборка: `build.ps1` → `nika-reel.mp4`. Ролики Ники тоже сохранять в ветки `nika-<тема>` перед новым (уже есть: `nika-dry-no-loss`, `nika-food-day`, `nika-useful-food`, `nika-protein`, `nika-weekend`). В роликах использовать мультяшные стикеры из `assets/nika/toon` (элемент `.tst`); еда и иконки — векторные SVG прямо в вёрстке.
 
 ---
 
